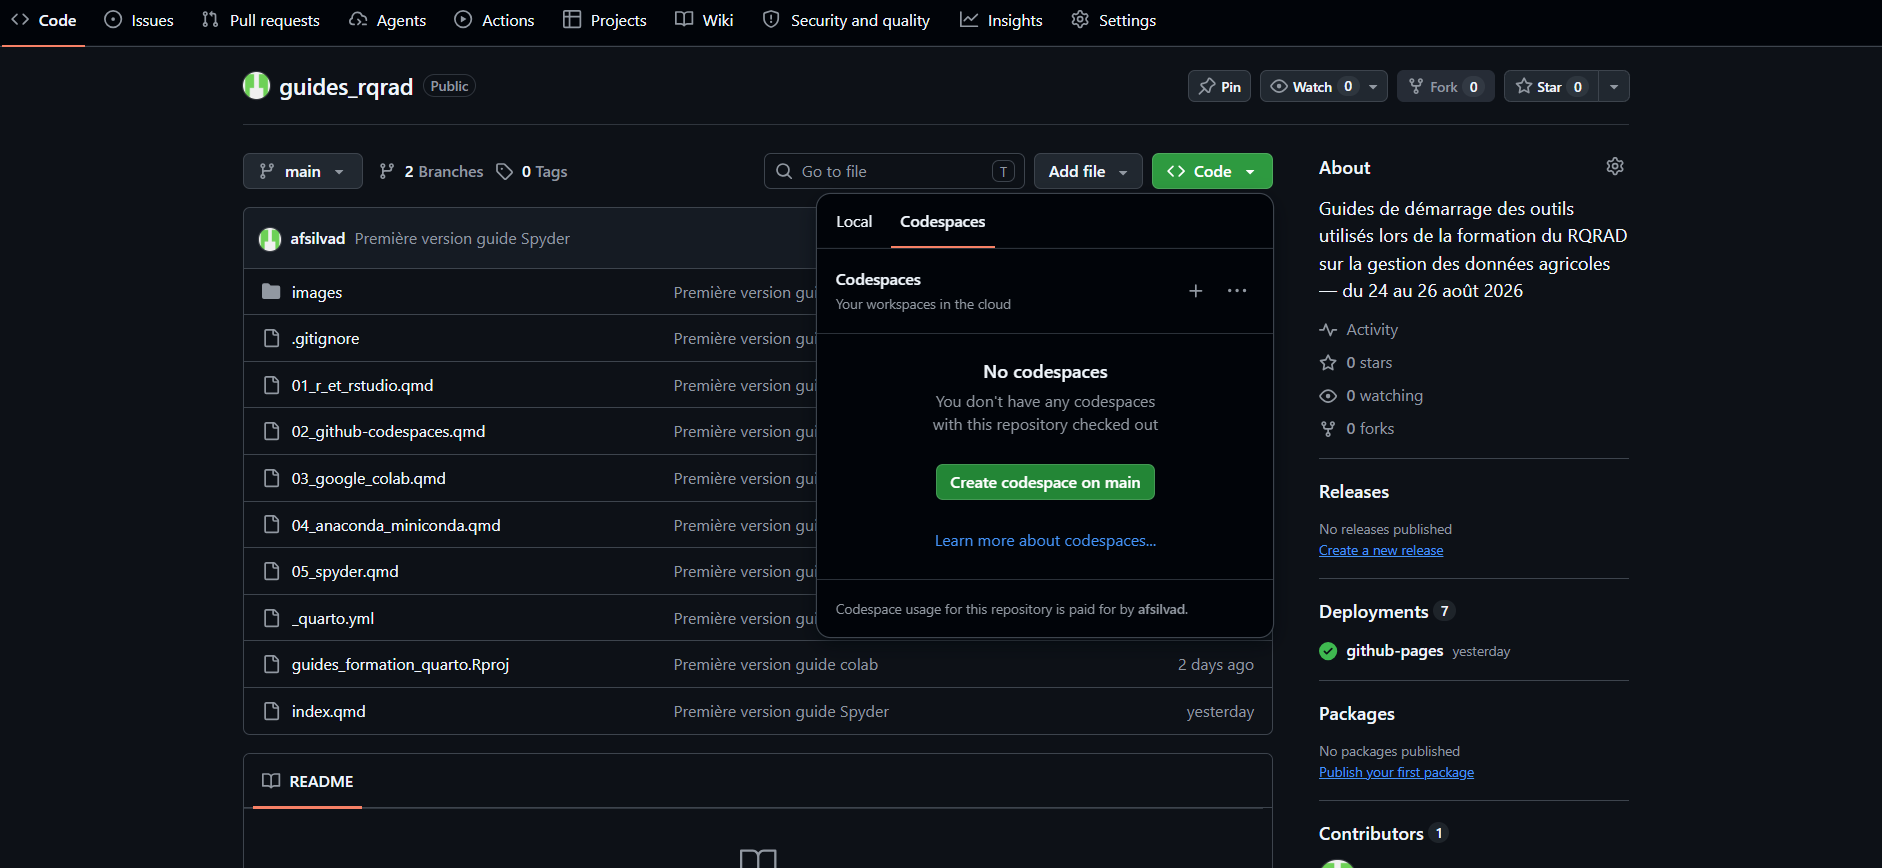
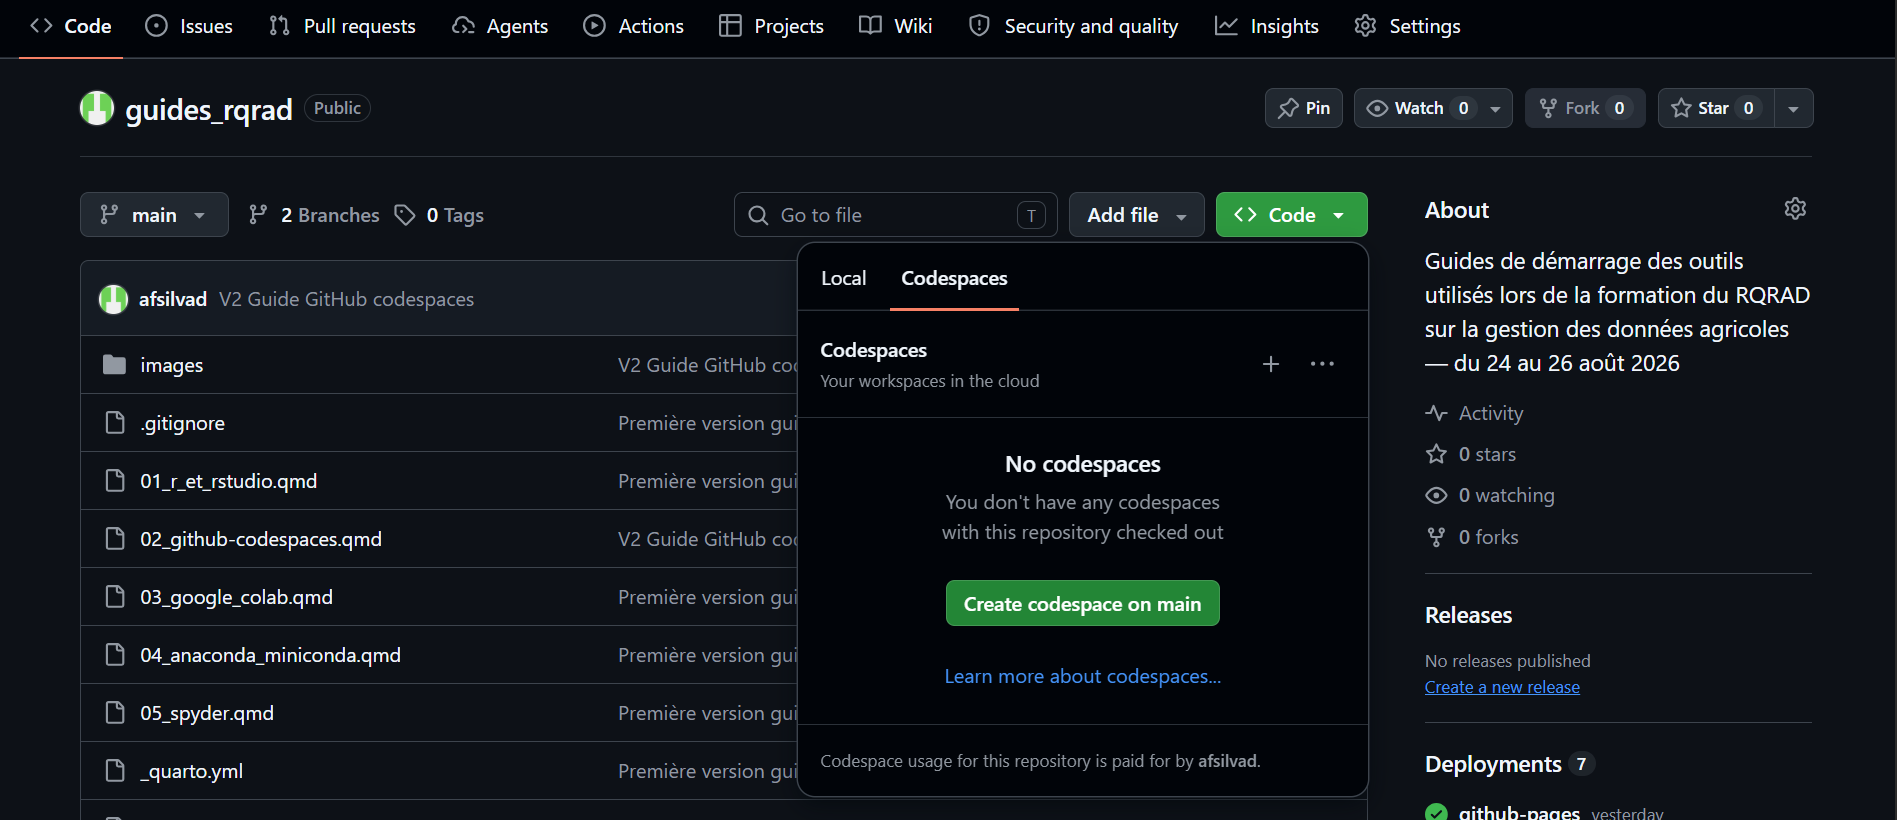
Built site for gh-pages

diff --git a/02_github-codespaces.html b/02_github-codespaces.html
@@ -456,7 +456,7 @@ Important
 </ol>
 <div class="quarto-figure quarto-figure-center">
 <figure class="figure">
-<p><img src="images/02_01_codespaces_repository.png" class="img-fluid figure-img" style="width:80.0%"></p>
+<p><img src="images/02_01_codespaces_repository.png" class="img-fluid figure-img" style="width:90.0%"></p>
 <figcaption>Menu de création d’un codespace à partir du bouton <strong>Code</strong> du dépôt</figcaption>
 </figure>
 </div>
@@ -491,7 +491,7 @@ Important
 </div>
 <div class="quarto-figure quarto-figure-center">
 <figure class="figure">
-<p><img src="images/02_02_github_codespaces.png" class="img-fluid figure-img" style="width:80.0%"></p>
+<p><img src="images/02_02_github_codespaces.png" class="img-fluid figure-img" style="width:90.0%"></p>
 <figcaption>Tableau de bord de GitHub Codespaces et gabarits de démarrage rapide</figcaption>
 </figure>
 </div>
@@ -518,8 +518,15 @@ Important
 <li><strong>Zone d’édition</strong> (au centre) : pour ouvrir et modifier les fichiers.</li>
 <li><strong>Terminal</strong> (en bas) : une ligne de commande déjà connectée à l’environnement du codespace, avec Git préinstallé.</li>
 <li><strong>Barre d’activité</strong> (tout à gauche) : icônes pour accéder à la recherche, au contrôle de version Git, aux extensions, etc.</li>
+<li><strong>Clavardage avec un agent (Chat)</strong> : un panneau, généralement affiché à droite, pour poser des questions sur le code ou déléguer une tâche à un agent IA (comme GitHub Copilot). Deux modes principaux sont proposés : <strong>Ask</strong>, pour poser une question ou obtenir une explication, et <strong>Agent</strong>, pour laisser l’IA modifier le code de façon autonome selon une tâche décrite [<a href="#ref-5">5</a>].</li>
 </ul>
-<p>Pour ouvrir le terminal s’il n’est pas visible, utilisez le menu <strong>Terminal &gt; New Terminal</strong>.</p>
+<p>Pour ouvrir le terminal s’il n’est pas visible, utilisez le menu <strong>Terminal &gt; New Terminal</strong>. Pour ouvrir le clavardage, cliquez sur l’icône de conversation dans la barre d’activité, ou utilisez le raccourci <strong>Ctrl + Alt + I</strong> (Windows/Linux) ou <strong>Cmd + Option + I</strong> (Mac) [<a href="#ref-5">5</a>].</p>
+<div class="quarto-figure quarto-figure-center">
+<figure class="figure">
+<p><img src="images/02_03_github_codespaces.png" class="img-fluid figure-img" style="width:90.0%"></p>
+<figcaption>Interface Visual Studio Code dans GitHub Codespaces.</figcaption>
+</figure>
+</div>
 </section>
 <section id="étape-4-exécuter-une-première-commande" class="level2">
 <h2 class="anchored" data-anchor-id="étape-4-exécuter-une-première-commande">Étape 4 : exécuter une première commande</h2>
@@ -640,7 +647,7 @@ Important
 <li>Expliquer ce qu’est un codespace, en une phrase simple.</li>
 <li>Créer un codespace à partir d’un dépôt existant, via le bouton <strong>Code</strong> ou via la page <strong>New codespace</strong>.</li>
 <li>Créer un codespace à partir d’un gabarit, par exemple Jupyter, sans dépôt préexistant.</li>
-<li>Reconnaître les éléments principaux de l’interface Visual Studio Code dans le navigateur.</li>
+<li>Reconnaître les éléments principaux de l’interface Visual Studio Code dans le navigateur, y compris le panneau de clavardage avec un agent IA.</li>
 <li>Modifier un fichier et envoyer les changements vers GitHub avec <code>git push</code>.</li>
 <li>Arrêter, reprendre et supprimer un codespace.</li>
 </ul>
@@ -671,6 +678,9 @@ Important
 </div>
 <div id="ref-4">
 <p>4. Microsoft Learn — <a href="https://learn.microsoft.com/fr-fr/training/modules/code-with-github-codespaces/2-codespace-lifecycle">Le cycle de vie des codespaces</a></p>
+</div>
+<div id="ref-5">
+<p>5. Visual Studio Code — <a href="https://code.visualstudio.com/docs/chat/chat-overview">Use chat in VS Code</a></p>
 </div>
 
 

diff --git a/04_anaconda_miniconda.html b/04_anaconda_miniconda.html
@@ -479,7 +479,12 @@ Important
 <li>Ouvrez <strong>Anaconda Navigator</strong> depuis le menu Démarrer (Windows) ou le dossier Applications (macOS).</li>
 <li>L’interface graphique d’Anaconda Navigator devrait s’afficher, avec une liste d’applications comme Jupyter Notebook, Spyder et JupyterLab déjà installées.</li>
 </ol>
-<!-- Insérer ici la capture d'écran d'Anaconda Navigator -->
+<div class="quarto-figure quarto-figure-center">
+<figure class="figure">
+<p><img src="images/conda_navigator.webp" class="img-fluid figure-img" style="width:90.0%"></p>
+<figcaption>Anaconda navigator. Source :<a href="https://www.anaconda.com/docs/legacy/anaconda-navigator/main">Site web Anaconda</a></figcaption>
+</figure>
+</div>
 <div class="callout callout-style-default callout-note callout-titled">
 <div class="callout-header d-flex align-content-center">
 <div class="callout-icon-container">
